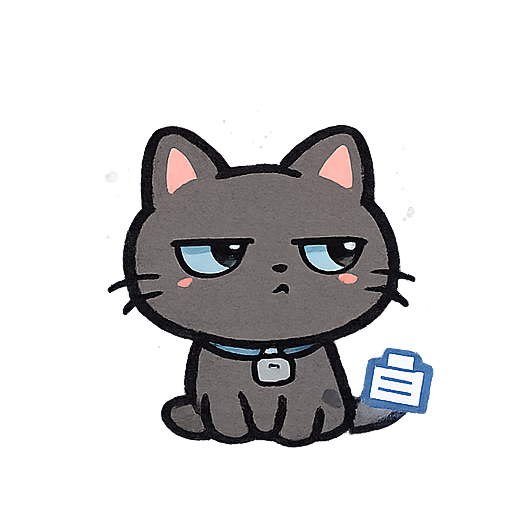
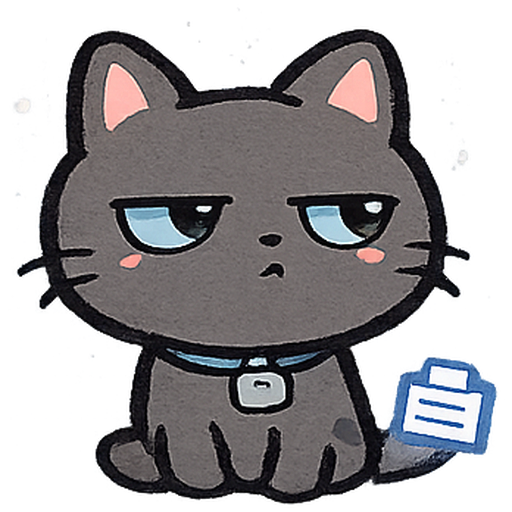
fix: インジケーターのアイコン位置を左右対応 + トラ・スミの画像再トリミング
- タイピングインジケーターのアイコンをメッセージと同じ左右配置に
- トラ・スミの画像の余白を詰めてサイズ感を統一

diff --git a/src/components/Meeting.tsx b/src/components/Meeting.tsx
@@ -168,22 +168,29 @@ export function Meeting({ hearing, onReset }: MeetingProps) {
           <MessageBubble key={`msg-${i}`} msg={msg} index={i} />
         ))}
 
-        {showTypingIndicator && (
-          <div className="flex justify-start animate-fade-in items-center">
-            {nextCat && (
-              <CatIcon name={nextCat} size={56} className="mr-1 shrink-0" />
-            )}
-            <Card className="bg-white border-amber-200">
-              <CardContent className="px-4 py-3">
-                <div className="flex gap-1.5 items-center h-5">
-                  <span className="w-2 h-2 bg-amber-400 rounded-full animate-bounce [animation-delay:0ms]" />
-                  <span className="w-2 h-2 bg-amber-400 rounded-full animate-bounce [animation-delay:150ms]" />
-                  <span className="w-2 h-2 bg-amber-400 rounded-full animate-bounce [animation-delay:300ms]" />
-                </div>
-              </CardContent>
-            </Card>
-          </div>
-        )}
+        {showTypingIndicator && (() => {
+          const nextIndex = displayedMessages.length;
+          const isLeft = nextIndex % 2 === 0;
+          return (
+            <div className={`flex animate-fade-in items-center ${isLeft ? "justify-start" : "justify-end"}`}>
+              {isLeft && nextCat && (
+                <CatIcon name={nextCat} size={56} className="mr-1 shrink-0" />
+              )}
+              <Card className="bg-white border-amber-200">
+                <CardContent className="px-4 py-3">
+                  <div className="flex gap-1.5 items-center h-5">
+                    <span className="w-2 h-2 bg-amber-400 rounded-full animate-bounce [animation-delay:0ms]" />
+                    <span className="w-2 h-2 bg-amber-400 rounded-full animate-bounce [animation-delay:150ms]" />
+                    <span className="w-2 h-2 bg-amber-400 rounded-full animate-bounce [animation-delay:300ms]" />
+                  </div>
+                </CardContent>
+              </Card>
+              {!isLeft && nextCat && (
+                <CatIcon name={nextCat} size={56} className="ml-1 shrink-0" />
+              )}
+            </div>
+          );
+        })()}
       </div>
     </div>
   );
